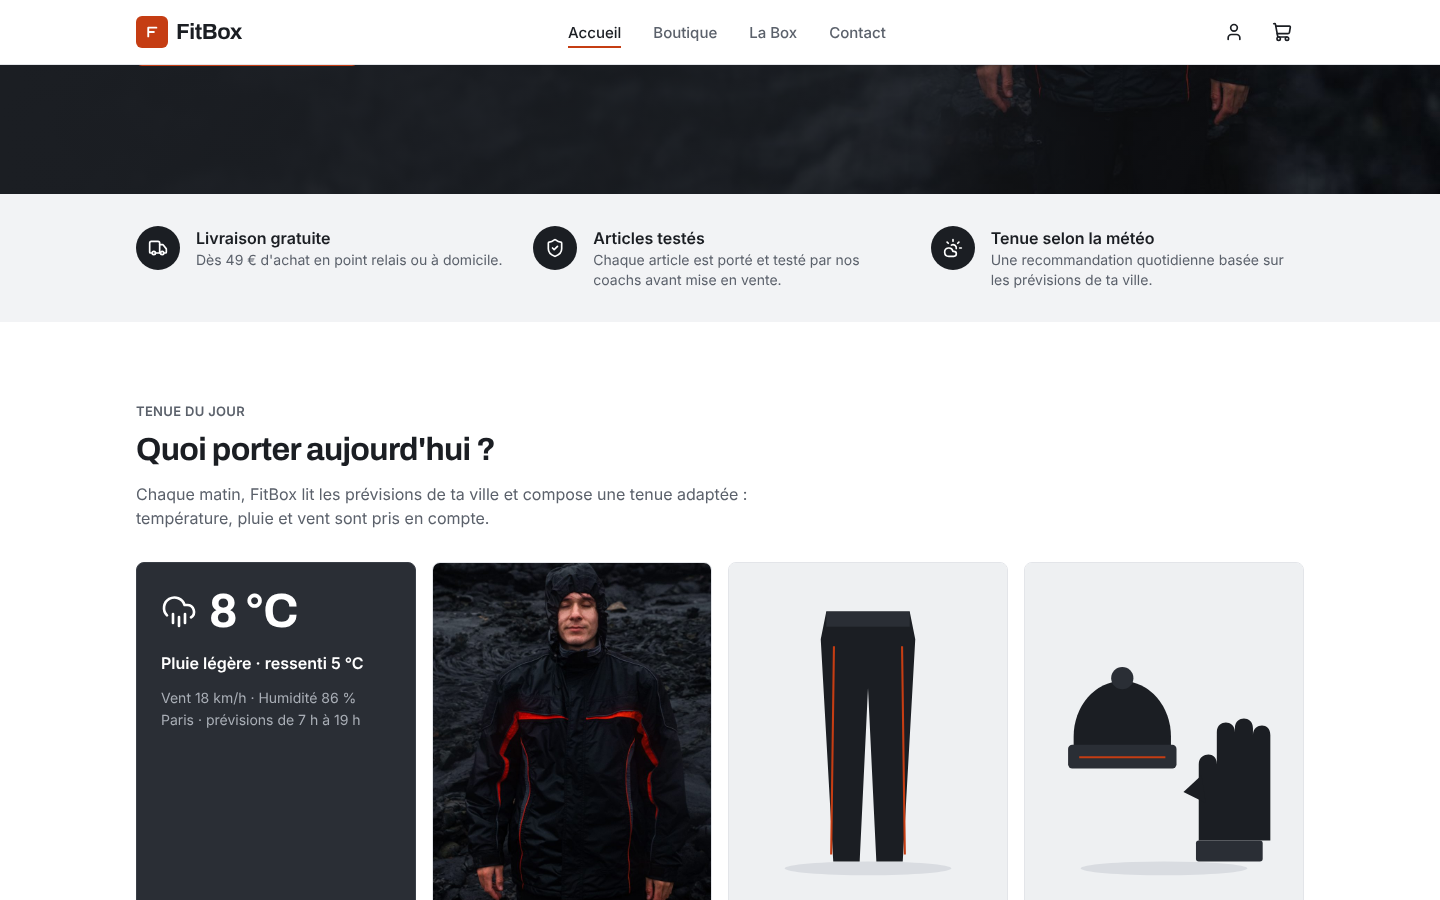
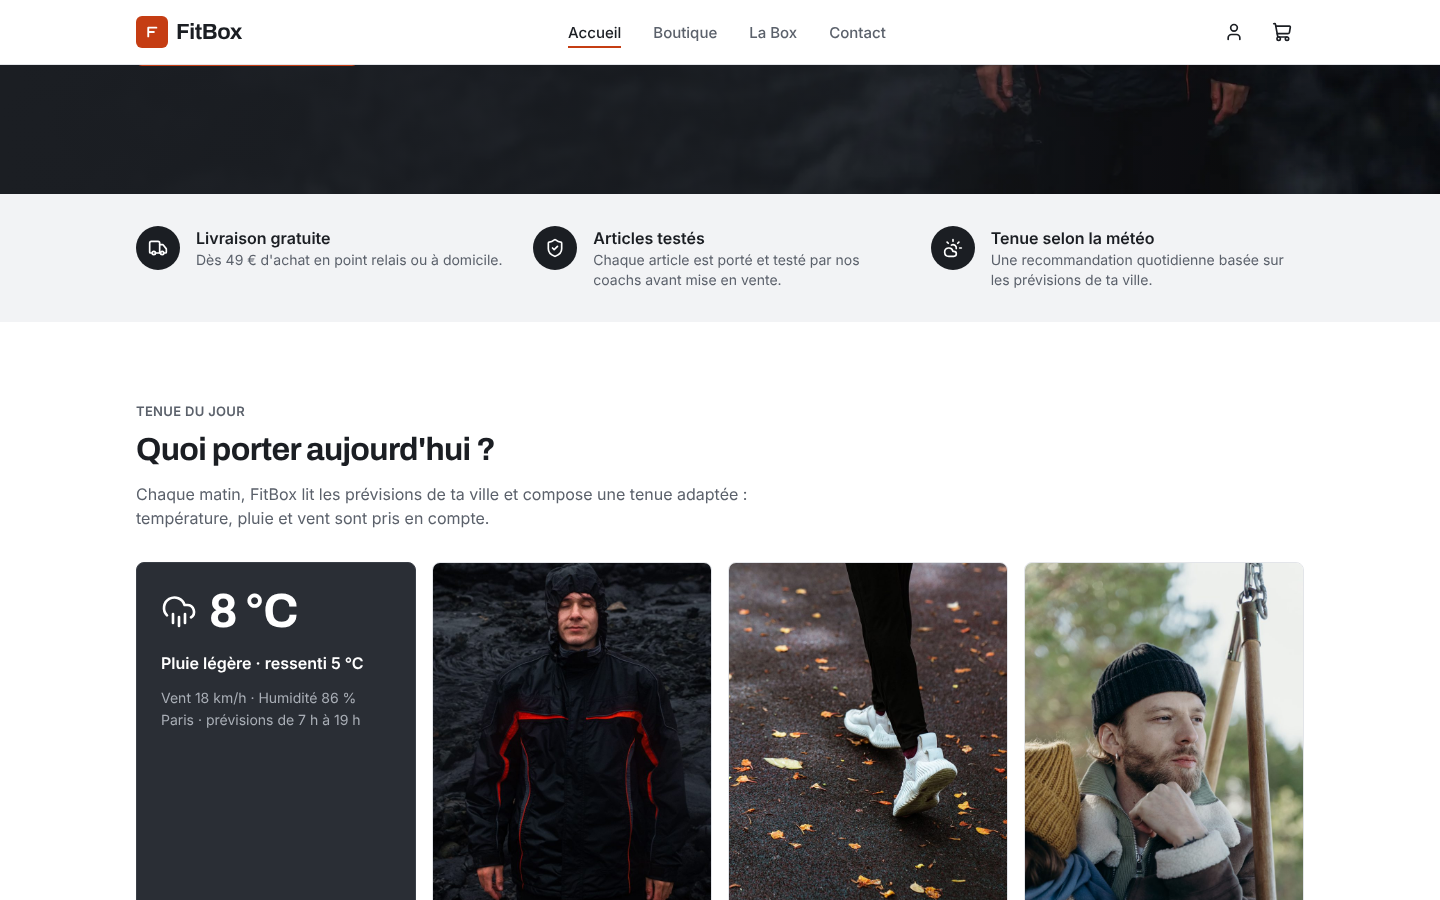
Vraies photos Pexels pour tous les produits, crédits et captures du mémoire mises à jour
Claude-Session: https://claude.ai/code/session_01KS5agQ5ZfBXzBRF5QBZHSu

Changed region(s): [[0.5, 0.6222, 0.9062, 1.0]]

diff --git a/src/data/products.js b/src/data/products.js
@@ -29,8 +29,8 @@ export const products = [
     price: 49.9,
     rating: 4.5,
     reviewCount: 86,
-    image: '/images/produits/legging-thermique.svg',
-    imageAlt: 'Legging de running noir avec liseré orange',
+    image: '/images/produits/legging-thermique.jpg',
+    imageAlt: "Jambes d'une coureuse en legging noir sur un sol mouillé couvert de feuilles",
     description:
       'Intérieur gratté qui garde la chaleur sous 10 °C. Poche zippée au dos pour les clés, tissu qui sèche en moins d\'une heure.',
     features: ['Intérieur gratté', 'Poche zippée', 'Séchage rapide'],
@@ -45,8 +45,8 @@ export const products = [
     price: 21.9,
     rating: 4.4,
     reviewCount: 64,
-    image: '/images/produits/bonnet-gants.svg',
-    imageAlt: 'Bonnet et paire de gants noirs',
+    image: '/images/produits/bonnet-gants.jpg',
+    imageAlt: "Homme portant un bonnet noir et une veste chaude, en extérieur",
     description:
       'Le duo pour les départs tôt le matin, sous 6 °C. Gants compatibles avec les écrans tactiles.',
     features: ['Compatible écran tactile', 'Maille respirante'],
@@ -61,8 +61,8 @@ export const products = [
     price: 24.9,
     rating: 4.3,
     reviewCount: 152,
-    image: '/images/produits/tshirt-respirant.svg',
-    imageAlt: 'T-shirt de sport gris anthracite',
+    image: '/images/produits/tshirt-respirant.jpg',
+    imageAlt: "Coureur en t-shirt technique gris dans une rue",
     description:
       'Maille légère qui évacue la transpiration. À porter seul au-dessus de 16 °C, ou en première couche quand il fait frais.',
     features: ['Anti-odeur', 'Coutures plates', '120 g'],
@@ -77,8 +77,8 @@ export const products = [
     price: 34.9,
     rating: 4.5,
     reviewCount: 47,
-    image: '/images/produits/polaire-zippee.svg',
-    imageAlt: 'Polaire grise à col montant et zip',
+    image: '/images/produits/polaire-zippee.jpg',
+    imageAlt: "Homme remontant le zip de sa veste, col montant",
     description:
       'Couche intermédiaire chaude et respirante, pour les sorties entre 0 et 10 °C. Col montant et zip sur toute la longueur.',
     features: ['Col montant', 'Zip intégral', 'Respirante'],
@@ -93,8 +93,8 @@ export const products = [
     price: 27.9,
     rating: 4.2,
     reviewCount: 58,
-    image: '/images/produits/short-running.svg',
-    imageAlt: 'Short de running noir à bandes orange',
+    image: '/images/produits/short-running.jpg',
+    imageAlt: "Coureur en short noir et sweat à capuche le long d'un quai",
     description:
       'Short léger avec cuissard intégré, pour les beaux jours au-dessus de 18 °C. Poche latérale pour le téléphone.',
     features: ['Cuissard intégré', 'Poche téléphone'],
@@ -109,8 +109,8 @@ export const products = [
     price: 89.9,
     rating: 4.8,
     reviewCount: 211,
-    image: '/images/produits/halteres-ajustables.svg',
-    imageAlt: 'Paire d\'haltères ajustables avec disques gris',
+    image: '/images/produits/halteres-ajustables.jpg',
+    imageAlt: "Haltères à disques posés au sol dans une salle de sport",
     description:
       'Deux haltères de 2 à 10 kg chacun, réglables en quelques secondes. Idéal pour s\'entraîner dans un petit appartement.',
     features: ['2 à 10 kg par haltère', 'Réglage rapide', 'Poignée antidérapante'],
@@ -124,8 +124,8 @@ export const products = [
     price: 19.9,
     rating: 4.6,
     reviewCount: 173,
-    image: '/images/produits/bandes-elastiques.svg',
-    imageAlt: 'Quatre bandes élastiques de résistances différentes',
+    image: '/images/produits/bandes-elastiques.jpg',
+    imageAlt: "Femme étirant une bande élastique de résistance en extérieur",
     description:
       'Lot de 4 bandes, de légère à très forte. Pour l\'échauffement, le renforcement et la mobilité.',
     features: ['4 niveaux', 'Latex naturel', 'Pochette de rangement'],
@@ -139,8 +139,8 @@ export const products = [
     price: 29.9,
     rating: 4.4,
     reviewCount: 95,
-    image: '/images/produits/tapis-yoga.svg',
-    imageAlt: 'Tapis de yoga roulé avec sangle orange',
+    image: '/images/produits/tapis-yoga.jpg',
+    imageAlt: "Personne déroulant un tapis de yoga sur un parquet",
     description:
       'Tapis de 6 mm, antidérapant des deux côtés. Livré avec une sangle de transport.',
     features: ['6 mm', 'Antidérapant double face', 'Sangle incluse'],
@@ -154,8 +154,8 @@ export const products = [
     price: 44.9,
     rating: 4.7,
     reviewCount: 69,
-    image: '/images/produits/kettlebell-12kg.svg',
-    imageAlt: 'Kettlebell noir de 12 kg',
+    image: '/images/produits/kettlebell-12kg.jpg',
+    imageAlt: "Rangée de kettlebells noirs en fonte au sol",
     description:
       'Fonte d\'un seul bloc et poignée large pour les swings à deux mains. Base plate pour un rangement stable.',
     features: ['Fonte pleine', 'Poignée large', 'Base plate'],
@@ -169,8 +169,8 @@ export const products = [
     price: 17.9,
     rating: 4.1,
     reviewCount: 41,
-    image: '/images/produits/corde-a-sauter.svg',
-    imageAlt: 'Corde à sauter noire à poignées orange',
+    image: '/images/produits/corde-a-sauter.jpg',
+    imageAlt: "Sportive tenant une corde à sauter dans une salle de boxe",
     description:
       'Câble gainé et roulements à billes. Longueur réglable, poignées lestées de 150 g.',
     features: ['Longueur réglable', 'Roulements à billes'],
@@ -184,8 +184,8 @@ export const products = [
     price: 22.9,
     rating: 4.5,
     reviewCount: 77,
-    image: '/images/produits/gourde-isotherme.svg',
-    imageAlt: 'Gourde isotherme gris foncé',
+    image: '/images/produits/gourde-isotherme.jpg',
+    imageAlt: "Deux gourdes isothermes en métal, une blanche et une noire",
     description:
       'Double paroi en inox : 12 h au chaud, 24 h au frais. Bouchon étanche avec anse.',
     features: ['Inox double paroi', '750 ml', 'Sans BPA'],

diff --git a/src/data/legal.js b/src/data/legal.js
@@ -1,7 +1,7 @@
 export const legalNotice = [
   { heading: 'Éditeur du site', text: "FitBox est un site réalisé dans le cadre d'un projet de formation de développeur web fullstack. Aucune vente réelle n'est effectuée." },
   { heading: 'Hébergement', text: 'Le site est hébergé par Vercel Inc., 440 N Barranca Ave #4133, Covina, CA 91723, États-Unis.' },
-  { heading: 'Propriété des contenus', text: 'Photographie de la veste : Nuptune, via Pexels (licence libre). Les autres visuels sont des illustrations réalisées pour le projet.' },
+  { heading: 'Propriété des contenus', text: "Photographies des produits, via Pexels (licence libre) : veste, Nuptune ; legging, t-shirt et short, Ketut Subiyanto ; bonnet et gants, gourde, cottonbro studio ; polaire, Daniel Battersby ; haltères, Oplita ; bandes élastiques, Karola G ; tapis de yoga, Mikhail Nilov ; kettlebell, Pixabay ; corde à sauter, Yaroslav Shuraev. Les visuels de la page d'accueil et de la box ont été réalisés pour le projet." },
 ]
 
 export const privacyPolicy = [

diff --git a/README.md b/README.md
@@ -47,4 +47,21 @@ Le site est déployé sur Vercel à chaque push sur `main`. Le fichier `vercel.j
 
 ## Crédits
 
-Photographie de la veste : Nuptune, Pexels. Données météo : [Open-Meteo](https://open-meteo.com/).
+Photographies des produits (Pexels, licence libre) :
+
+| Produit | Photographe | Photo Pexels |
+|---|---|---|
+| Veste coupe-vent | Nuptune | 13827794 |
+| Legging thermique | Ketut Subiyanto | 4429101 |
+| Bonnet et gants | cottonbro studio | 7494112 |
+| T-shirt technique | Ketut Subiyanto | 4719931 |
+| Polaire zippée | Daniel Battersby | 9965135 |
+| Short running 2 en 1 | Ketut Subiyanto | 5039659 |
+| Haltères ajustables | Oplita | 7209145 |
+| Bandes élastiques | Karola G | 4378991 |
+| Tapis de yoga | Mikhail Nilov | 6740754 |
+| Kettlebell 12 kg | Pixabay | 416717 |
+| Corde à sauter | Yaroslav Shuraev | 8478702 |
+| Gourde isotherme | cottonbro studio | 3737799 |
+
+Données météo : [Open-Meteo](https://open-meteo.com/).
